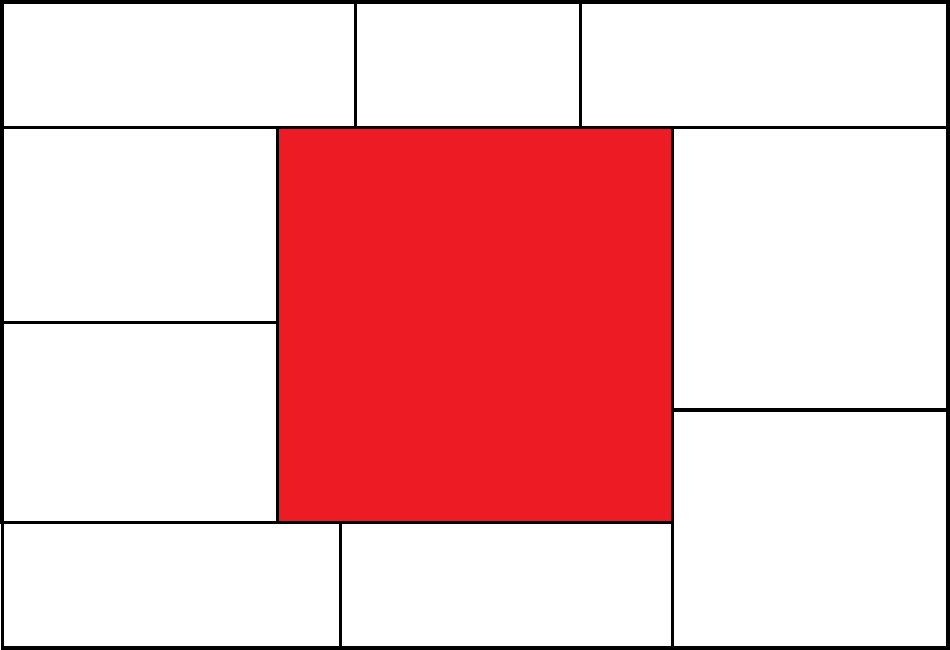
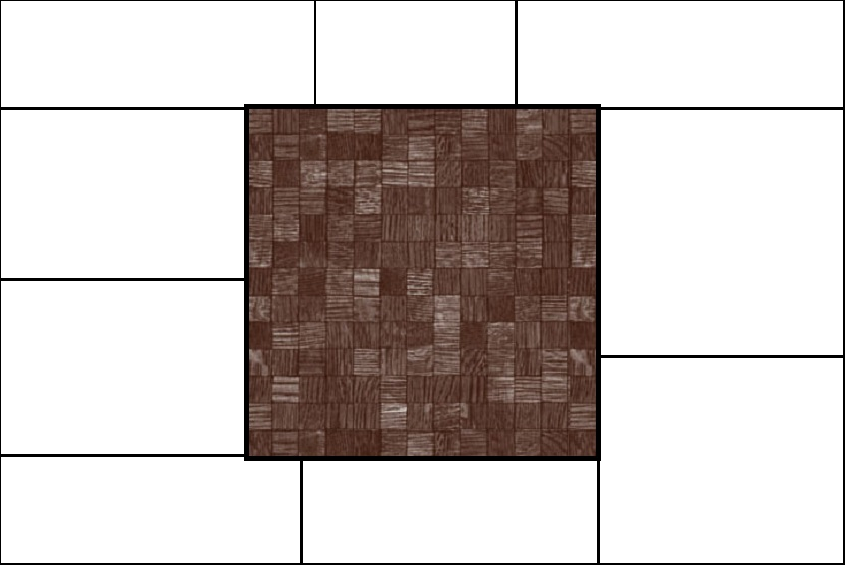
InnerBoard를 Area로 합치는중

Changed region(s): [[0.0, 0.0, 1.0, 1.0]]

diff --git a/ProjectClue/src/Clue/GameArea.java b/ProjectClue/src/Clue/GameArea.java
@@ -5,23 +5,21 @@ import javax.swing.*;
 
 public class GameArea extends JPanel{
 	Image backImg;
-	JPanel gridBoard;
+	
 	
 	public GameArea(){
 		
 		backImg=Toolkit.getDefaultToolkit().getImage("image/boardBack.png");
-		gridBoard=new GameArea_InnerBoard();
-		gridBoard.setBackground(Color.white);
+		
 		
 		setLayout(null);
 		
-		gridBoard.setBounds(249,109,352,352);
-
-		add(gridBoard);
+		
 	}
 
 	@Override
 	protected void paintComponent(Graphics g) {
 		g.drawImage(backImg, 0, 0, getWidth(), getHeight(),this);
+		
 		}
 }
